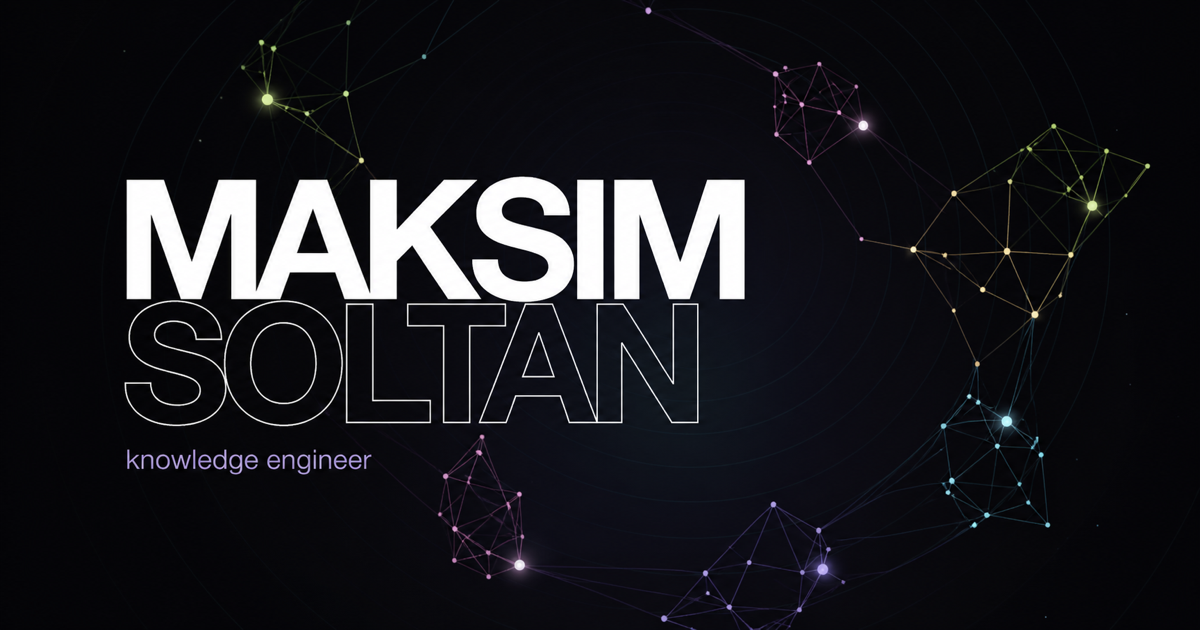
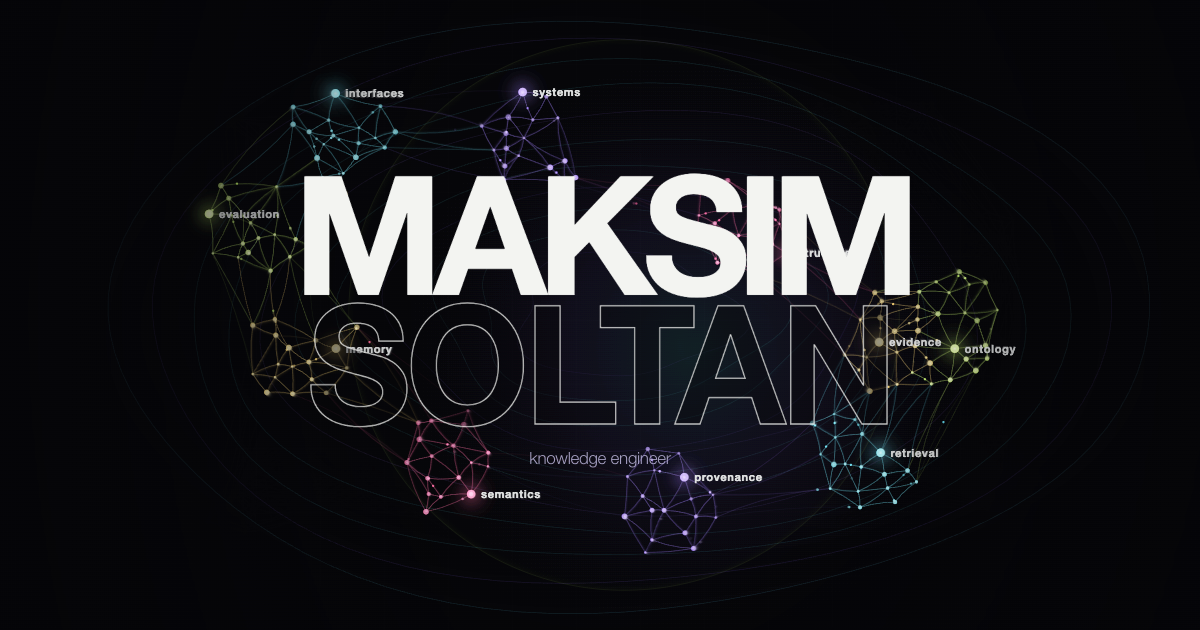
Center animated preview for link cards

diff --git a/index.html b/index.html
@@ -37,8 +37,8 @@
     <meta property="profile:first_name" content="Maksim">
     <meta property="profile:last_name" content="Soltan">
     <meta property="profile:username" content="Gonzih">
-    <meta property="og:image" content="https://maksim.sh/og-animated-v1.gif">
-    <meta property="og:image:secure_url" content="https://maksim.sh/og-animated-v1.gif">
+    <meta property="og:image" content="https://maksim.sh/og-animated-v2.gif">
+    <meta property="og:image:secure_url" content="https://maksim.sh/og-animated-v2.gif">
     <meta property="og:image:type" content="image/gif">
     <meta property="og:image:width" content="1200">
     <meta property="og:image:height" content="630">
@@ -63,7 +63,7 @@
       name="twitter:description"
       content="Knowledge bases crafted, organized, and refined for one-shot execution by agentic systems."
     >
-    <meta name="twitter:image" content="https://maksim.sh/og-animated-v1.gif">
+    <meta name="twitter:image" content="https://maksim.sh/og-animated-v2.gif">
     <meta
       name="twitter:image:alt"
       content="Maksim Soltan, knowledge engineer, within a luminous graph of organized knowledge."

diff --git a/src/styles.css b/src/styles.css
@@ -82,6 +82,19 @@ html[data-social-preview="true"] .footer {
   display: none;
 }
 
+html[data-social-preview="true"] .hero {
+  justify-self: center;
+  text-align: center;
+}
+
+html[data-social-preview="true"] .name .outline {
+  transform-origin: center;
+}
+
+html[data-social-preview="true"] .role {
+  margin-left: 0;
+}
+
 .contact-links {
   display: flex;
   align-items: center;

diff --git a/README.md b/README.md
@@ -33,5 +33,8 @@ npm run social:preview
 npm run social:validate
 ```
 
+The generator keeps the name inside the centered 840×630 safe area used by
+taller, aspect-fill link cards such as iMessage.
+
 The GIF is the primary Open Graph and Twitter image. `public/og.png` remains the
 static fallback for crawlers that do not render animation.
